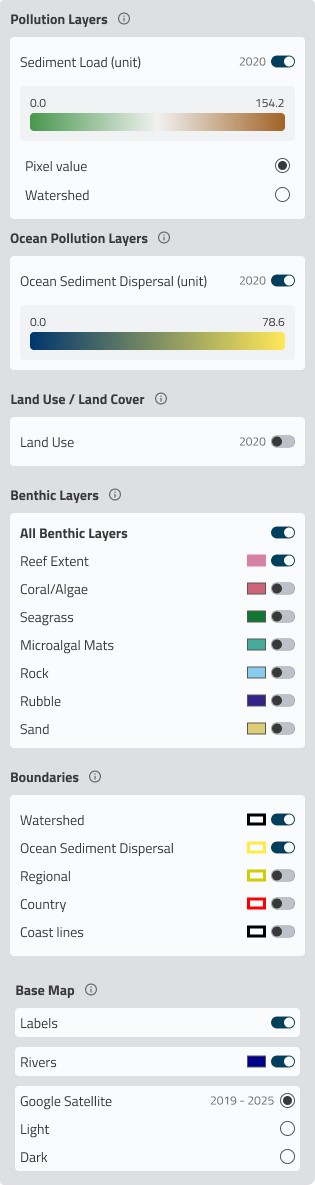
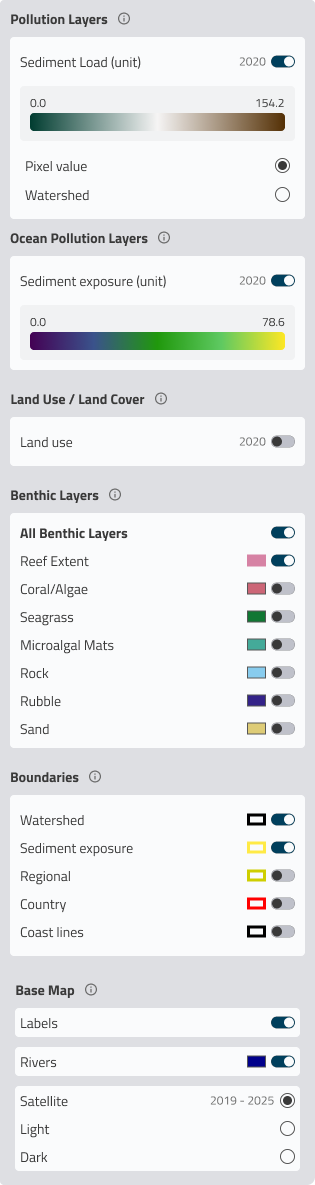
added full wordmark+beta, updated layers pane

diff --git a/style.css b/style.css
@@ -16,28 +16,46 @@ html, body {
   inset: 0;
 }
 
-/* ── Logo ────────────────────────────────────────────── */
+/* ── Top bar ─────────────────────────────────────────── */
 
-#logo-placeholder {
-  width: 48px;
-  height: 48px;
-  background: #1976d2;
-  color: #fff;
-  font-size: 12px;
-  font-weight: 700;
-  letter-spacing: .08em;
+#top-bar {
+  position: fixed;
+  top: 0;
+  left: 0;
+  right: 0;
+  height: 36px;
+  background: #fff;
+  border-bottom: 1px solid #e0e0e0;
+  z-index: 35;
   display: flex;
   align-items: center;
-  justify-content: center;
-  flex-shrink: 0;
+  padding: 0 14px;
+  gap: 10px;
   user-select: none;
+}
+
+#app-title {
+  font-size: 15px;
+  font-weight: 700;
+  color: #212121;
+  letter-spacing: .01em;
+}
+
+#beta-badge {
+  background: #1976d2;
+  color: #fff;
+  font-size: 10px;
+  font-weight: 700;
+  letter-spacing: .08em;
+  padding: 2px 7px;
+  border-radius: 10px;
 }
 
 /* ── Region selector ─────────────────────────────────── */
 
 #bc-control {
   position: fixed;
-  top: 8px;
+  top: 44px;
   left: 56px;
   z-index: 30;
   display: flex;
@@ -187,7 +205,7 @@ html, body {
 
 #year-bar {
   position: fixed;
-  top: 57px;
+  top: 93px;
   left: 56px;
   width: 315px;
   z-index: 20;
@@ -249,13 +267,13 @@ html, body {
 .panel-content--image img { width: 100%; display: block; }
 
 #panel-left,
-#panel-bottom { top: 91px; left: 56px; }
+#panel-bottom { top: 127px; left: 56px; }
 
 /* ── Left sidebar ────────────────────────────────────── */
 
 #sidebar {
   position: fixed;
-  top: 0;
+  top: 36px;
   left: 0;
   bottom: 0;
   width: 48px;
@@ -265,7 +283,7 @@ html, body {
   display: flex;
   flex-direction: column;
   align-items: center;
-  padding-top: 8px;
+  padding-top: 4px;
   gap: 4px;
 }
 

diff --git a/index.html b/index.html
@@ -9,6 +9,11 @@
 </head>
 <body>
 
+  <div id="top-bar">
+    <span id="app-title">Global Pollution Watch</span>
+    <span id="beta-badge">BETA</span>
+  </div>
+
   <div id="map"></div>
 
   <!-- Region selector (always visible, floats above panel-bottom) -->
@@ -41,7 +46,6 @@
 
   <!-- Left sidebar -->
   <div id="sidebar">
-    <div id="logo-placeholder">GPW</div>
     <button class="sidebar-btn" id="toggle-bottom" data-tooltip="Graphs" data-tooltip-placement="right">
       <span class="material-icons">bar_chart</span>
     </button>
